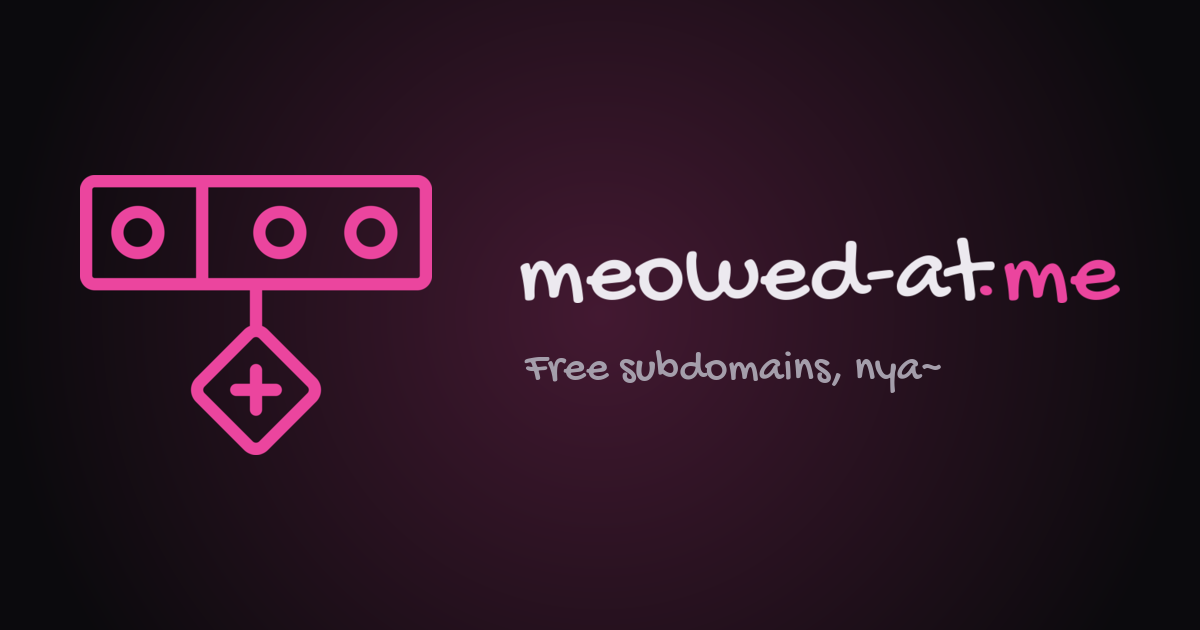
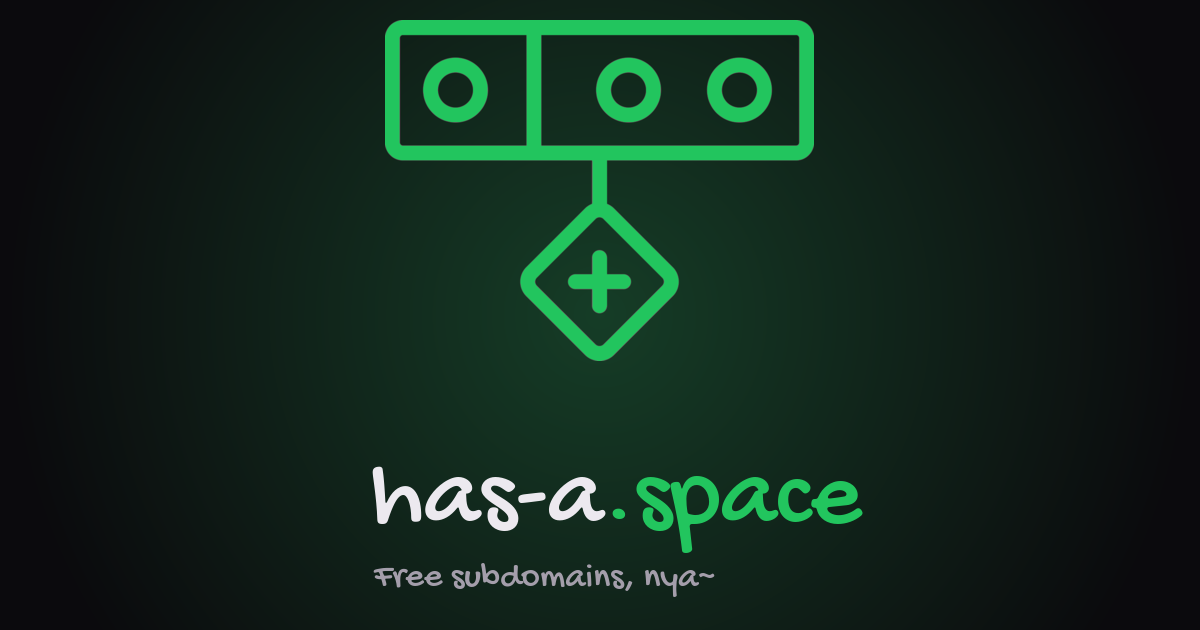
Rebrand website for has-a.space

diff --git a/index.html b/index.html
@@ -7,16 +7,16 @@
         <meta name="viewport" content="width=device-width, initial-scale=1" />
 
         <!-- HTML Meta Tags -->
-        <title>meowed-at.me - Free subdomains</title>
-        <meta name="description" content="Get your own free .meowed-at.me subdomain" />
+        <title>has-a.space - Free subdomains</title>
+        <meta name="description" content="Get your own free .has-a.space subdomain" />
         <meta name="theme-color" content="#0b0a0d" />
 
         <!-- Open Graph / Twitter -->
-        <meta property="og:url" content="https://meowed-at.me/" />
+        <meta property="og:url" content="https://has-a.space/" />
         <meta property="og:type" content="website" />
-        <meta property="og:title" content="meowed-at.me" />
-        <meta property="og:description" content="Get your own free .meowed-at.me subdomain" />
-        <meta property="og:image" content="https://meowed-at.me/assets/og.png" />
+        <meta property="og:title" content="has-a.space" />
+        <meta property="og:description" content="Get your own free .has-a.space subdomain" />
+        <meta property="og:image" content="https://has-a.space/assets/og.png" />
         <meta name="twitter:card" content="summary_large_image" />
 
         <!-- Favicon -->
@@ -30,12 +30,12 @@
 
     <body>
         <main>
-            <h1 class="banner"><img src="/assets/meowed-at-me-banner.png" alt="meowed-at.me" width="1500" height="500" /></h1>
-            <h3>Grab your own adorable <span>.meowed-at.me</span> subdomain.</h3>
+            <h1 class="banner"><img src="/assets/has-a-space-banner.png" alt="has-a.space" width="1500" height="500" /></h1>
+            <h3>Grab your own adorable <span>.has-a.space</span> subdomain.</h3>
 
             <p>
                 To register your own subdomain, visit the
-                <a href="https://github.com/meowed-at-me/register" target="_blank" rel="noopener">meowed-at-me/register</a>
+                <a href="https://github.com/has-a-space/register" target="_blank" rel="noopener">has-a-space/register</a>
                 repository on GitHub and follow the provided instructions.
             </p>
 
@@ -59,7 +59,7 @@
 
                 <p id="result-none" class="hidden">
                     This subdomain is available,
-                    <a href="https://github.com/meowed-at-me/register" target="_blank" rel="noopener">click here</a>
+                    <a href="https://github.com/has-a-space/register" target="_blank" rel="noopener">click here</a>
                     to learn how to register it!
                 </p>
                 <p id="result-error" class="hidden">An error occurred whilst processing your request, please try again.</p>
@@ -69,17 +69,17 @@
             <h2>Important Links</h2>
             <ul>
                 <li><a href="/terms/">Terms of Service</a></li>
-                <li><a href="https://github.com/meowed-at-me/register">GitHub</a></li>
+                <li><a href="https://github.com/has-a-space/register">GitHub</a></li>
             </ul>
 
             <h2>Report Abuse</h2>
             <p>
                 If you suspect that a subdomain is abusing the service, please
-                <a href="https://github.com/meowed-at-me/register/issues/new?title=Report+abuse" target="_blank" rel="noopener">report it here</a>.
+                <a href="https://github.com/has-a-space/register/issues/new?title=Report+abuse" target="_blank" rel="noopener">report it here</a>.
             </p>
 
             <p>
-                &copy; <span id="year">2026</span> meowed-at.me
+                &copy; <span id="year">2026</span> has-a.space
                 <br />
                 A project by <a href="https://github.com/doughmination">Doughmination</a>.
                 Based on the <a href="https://github.com/is-a-dev/is-a-dev.github.io">is-a.dev website</a>.

diff --git a/terms/index.html b/terms/index.html
@@ -6,7 +6,7 @@
         <meta charset="UTF-8" />
         <meta name="viewport" content="width=device-width, initial-scale=1.0" />
 
-        <title>Terms of Service | meowed-at.me</title>
+        <title>Terms of Service | has-a.space</title>
         <meta name="description" content="By using our service, you agree to the following Terms of Service." />
 
         <link rel="icon" type="image/svg+xml" href="/assets/collar.svg" />
@@ -23,7 +23,7 @@
         <div class="markdown-body" id="terms-of-service"><p>Loading...</p></div>
 
         <script>
-            const markdownUrl = "https://raw.githubusercontent.com/meowed-at-me/register/main/TERMS_OF_SERVICE.md";
+            const markdownUrl = "https://raw.githubusercontent.com/has-a-space/register/main/TERMS_OF_SERVICE.md";
             const container = document.getElementById("terms-of-service");
 
             fetch(markdownUrl)

diff --git a/reserved/index.html b/reserved/index.html
@@ -6,7 +6,7 @@
         <meta charset="UTF-8" />
         <meta name="viewport" content="width=device-width, initial-scale=1.0" />
 
-        <title>Reserved Domain | meowed-at.me</title>
+        <title>Reserved Domain | has-a.space</title>
 
         <link rel="icon" type="image/svg+xml" href="/assets/collar.svg" />
         <link rel="apple-touch-icon" href="/assets/apple-touch-icon.png" />
@@ -18,7 +18,7 @@
 
     <body>
         <h1>Reserved Domain</h1>
-        <p>This domain has been reserved by the meowed-at.me team and is not available for registration.</p>
+        <p>This domain has been reserved by the has-a.space team and is not available for registration.</p>
 
         <a href="/">Return to the homepage.</a>
     </body>

diff --git a/available/index.html b/available/index.html
@@ -6,7 +6,7 @@
         <meta charset="UTF-8" />
         <meta name="viewport" content="width=device-width, initial-scale=1.0" />
 
-        <title>Available Domain | meowed-at.me</title>
+        <title>Available Domain | has-a.space</title>
 
         <link rel="icon" type="image/svg+xml" href="/assets/collar.svg" />
         <link rel="apple-touch-icon" href="/assets/apple-touch-icon.png" />
@@ -18,7 +18,7 @@
 
     <body>
         <h1>Available Domain</h1>
-        <p>The subdomain <span id="subdomain"></span>.meowed-at.me is available for registration!</p>
+        <p>The subdomain <span id="subdomain"></span>.has-a.space is available for registration!</p>
 
         <a href="/">Return to the homepage to learn more.</a>
 

diff --git a/404.html b/404.html
@@ -6,7 +6,7 @@
         <meta charset="UTF-8" />
         <meta name="viewport" content="width=device-width, initial-scale=1.0" />
 
-        <title>Page Not Found | meowed-at.me</title>
+        <title>Page Not Found | has-a.space</title>
 
         <link rel="icon" type="image/svg+xml" href="/assets/collar.svg" />
         <link rel="apple-touch-icon" href="/assets/apple-touch-icon.png" />

diff --git a/styles/main.css b/styles/main.css
@@ -9,9 +9,9 @@
     --line: rgb(255 255 255 / 9%);
     --text: #ece9ef;
     --muted: #a49eab;
-    --accent: #eb459e;
-    --accent-hover: #f37bbb;
-    --accent-dim: rgb(235 69 158 / 14%);
+    --accent: #22c55e;
+    --accent-hover: #4ade80;
+    --accent-dim: rgb(34 197 94 / 14%);
 
     --font-display: "Gochi Hand", cursive;
     --font-body: "IBM Plex Sans", system-ui, sans-serif;

diff --git a/scripts/subdomain-availability.js b/scripts/subdomain-availability.js
@@ -2,7 +2,7 @@
  * MIT Licence — (c) 2020-Present is-a.dev, (c) Clove Twilight
  */
 
-const REGISTER_RAW = "https://raw.githubusercontent.com/meowed-at-me/register/main";
+const REGISTER_RAW = "https://raw.githubusercontent.com/has-a-space/register/main";
 const DOMAIN_PATTERN = /^[a-zA-Z0-9_][a-zA-Z0-9.-]*/;
 
 let isSearching = false;

diff --git a/README.md b/README.md
@@ -1,8 +1,8 @@
-# meowed-at.me Website
+# has-a.space Website
 
-The website for the meowed-at.me subdomain service.
+The website for the has-a.space subdomain service.
 
-Register a subdomain at [meowed-at-me/register](https://github.com/meowed-at-me/register).
+Register a subdomain at [has-a-space/register](https://github.com/has-a-space/register).
 
 ---
 
